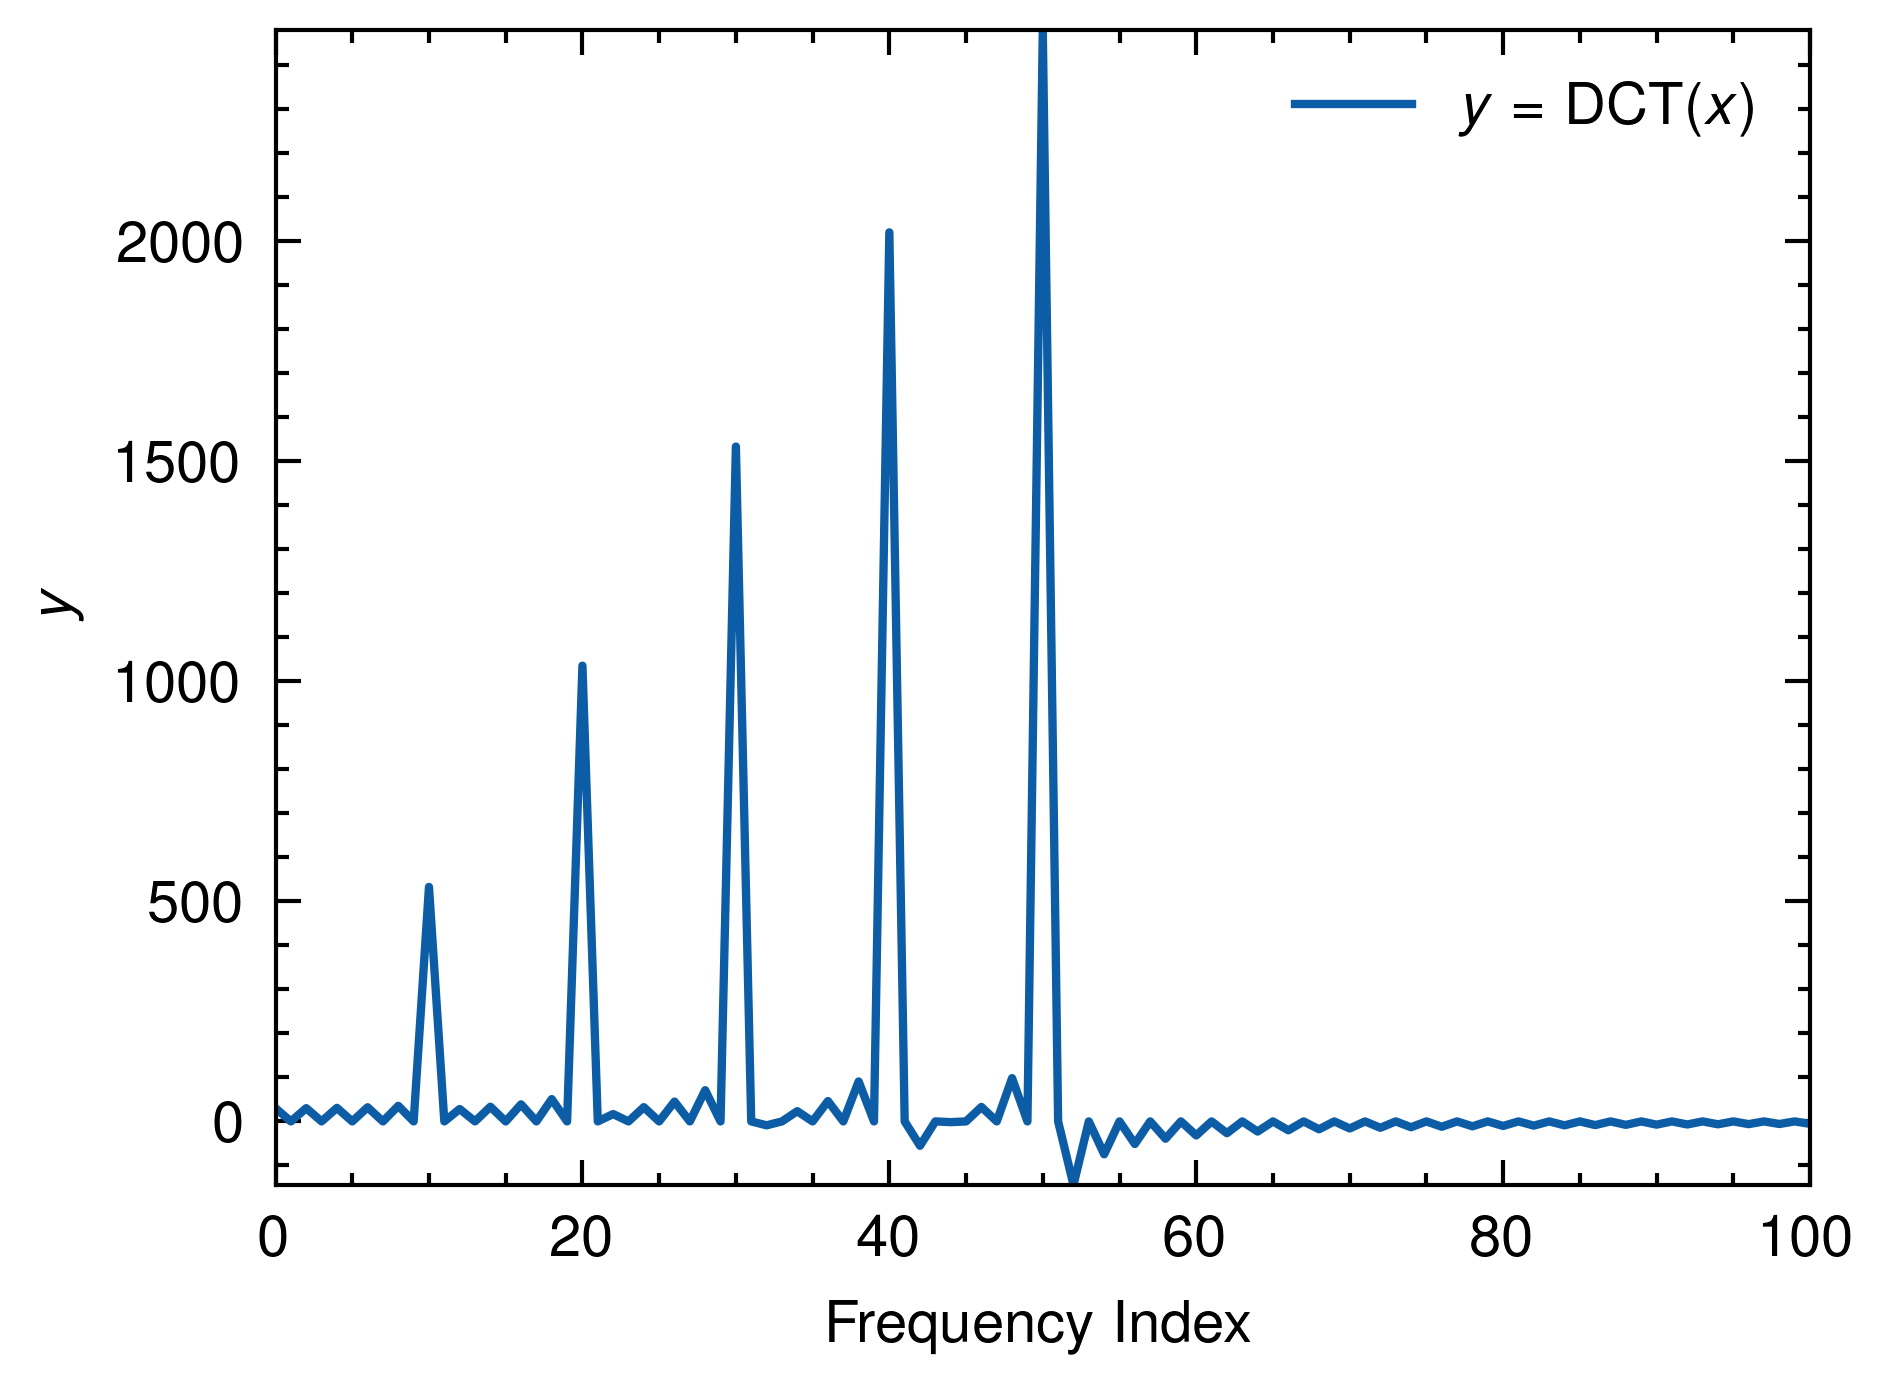
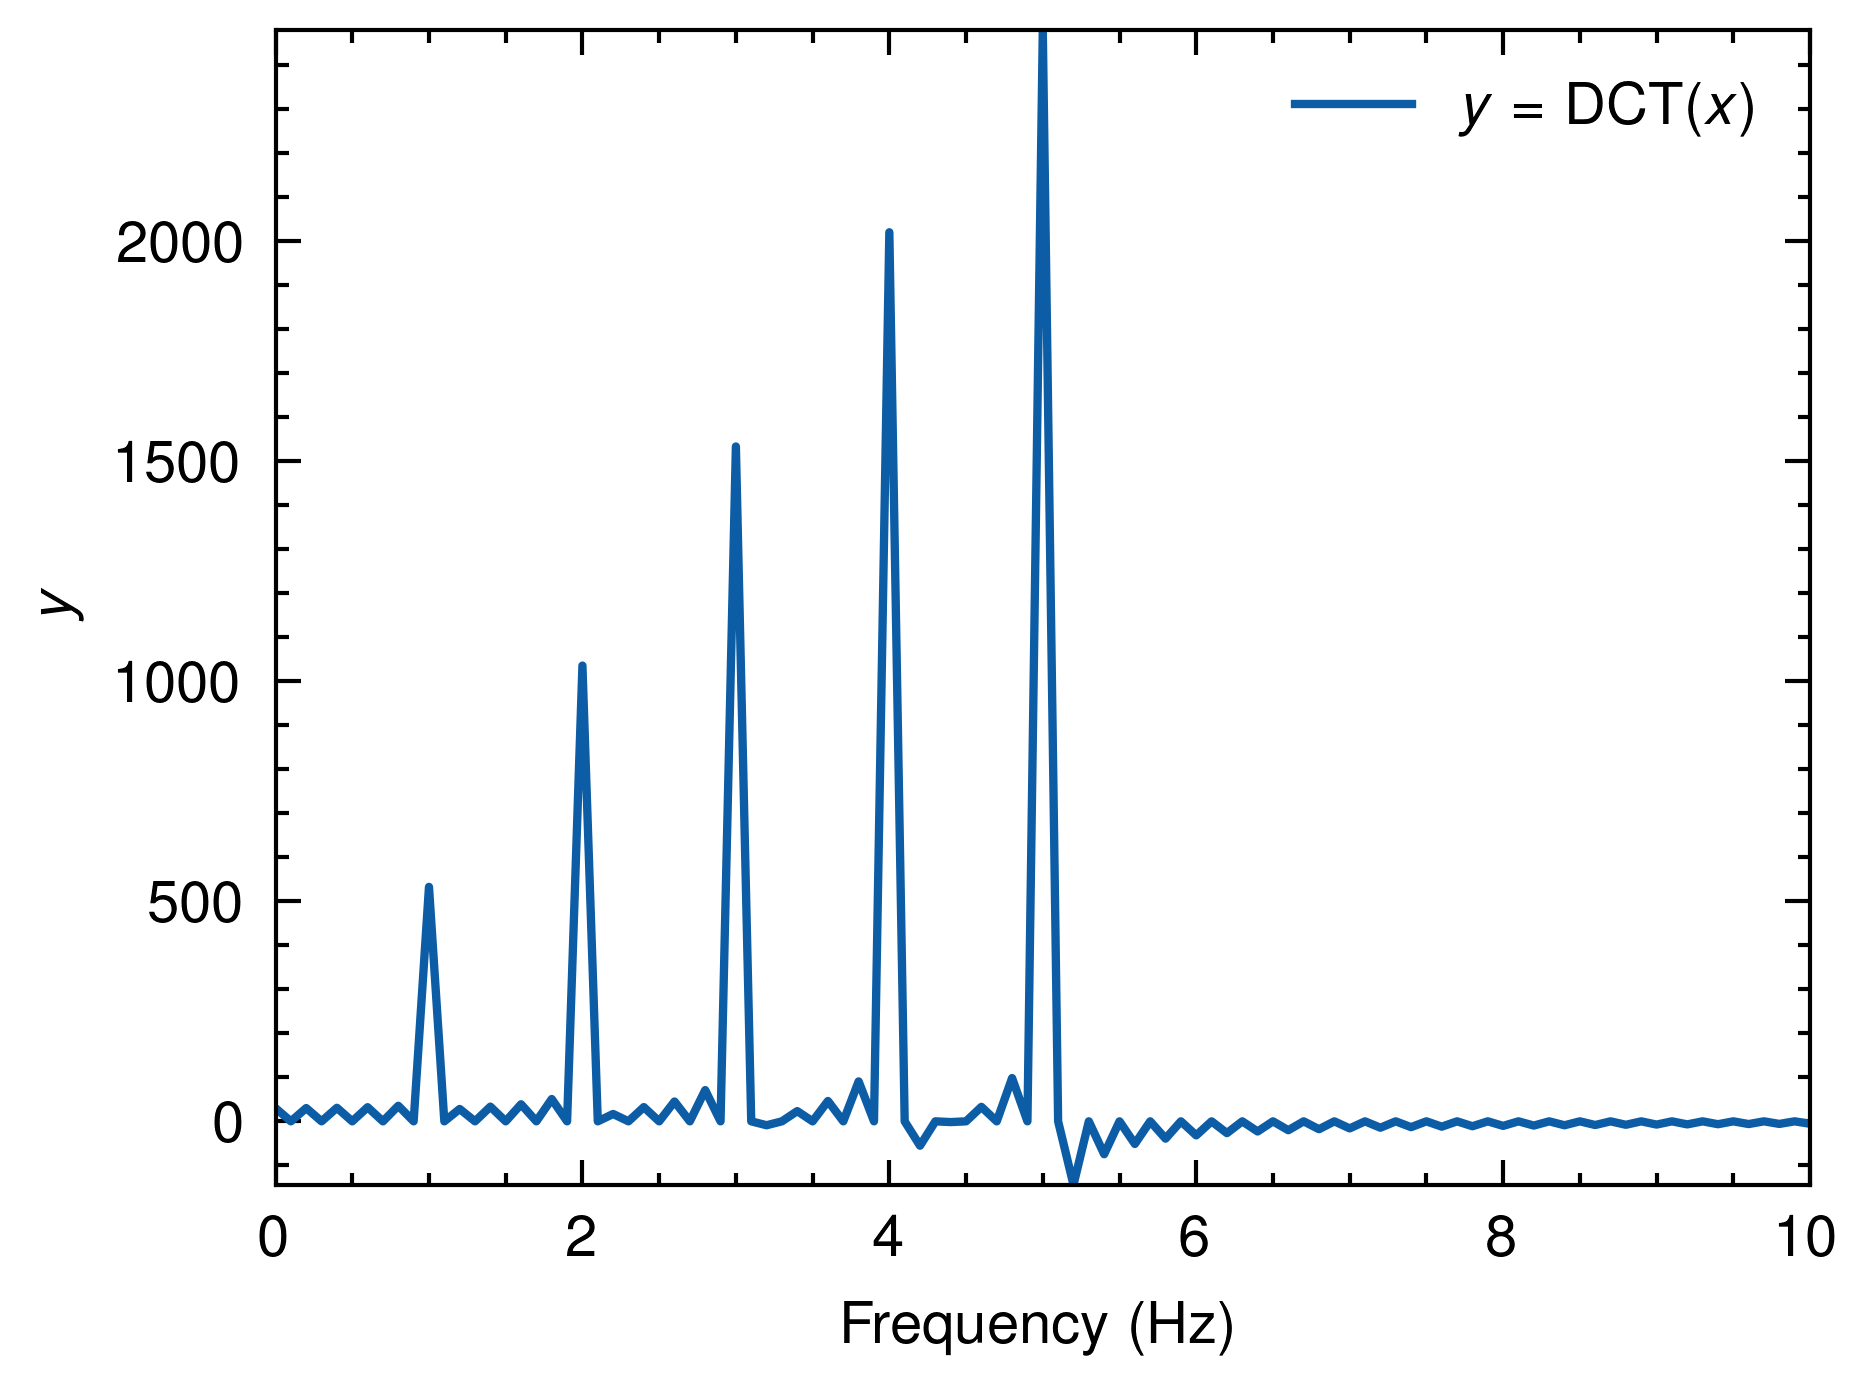
Fix label

diff --git a/Numeric/dct/pq_plot.py b/Numeric/dct/pq_plot.py
@@ -7,19 +7,19 @@ import numpy as np
 df = pd.read_parquet('dct.parquet')
 
 # Prepare Data to Plot
-t = df['t']
+t = np.array(df['t'][:])
 x = df['x']
 y = df['y']
 x_hat = df['x_hat']
-index = np.arange(len(x))
+omega = np.arange(len(x)) / 10
 
 # Plot params
 pparam = dict(
-    xlabel = r'Frequency Index',
+    xlabel = r'Frequency (Hz)',
     ylabel = r'$y$',
     xscale = 'linear',
     yscale = 'linear',
-    xlim   = (0, 100),
+    xlim   = (0, 10),
 )
 
 # Plot
@@ -27,13 +27,13 @@ with plt.style.context(["science", "nature"]):
     fig, ax = plt.subplots()
     ax.autoscale(tight=True)
     ax.set(**pparam)
-    ax.plot(index, y, label=r'$y={\rm DCT}(x)$')
+    ax.plot(omega, y, label=r'$y={\rm DCT}(x)$')
     ax.legend()
     fig.savefig('dct_plot.png', dpi=600, bbox_inches='tight')
 
 # Plot params
 pparam = dict(
-    xlabel = r'$t$',
+    xlabel = r'$t$ (s)',
     ylabel = r'$x$',
     xscale = 'linear',
     yscale = 'linear',
